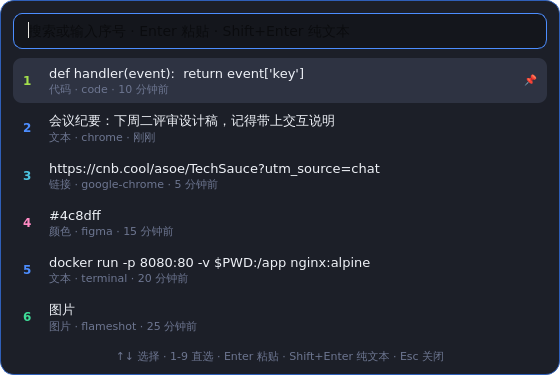
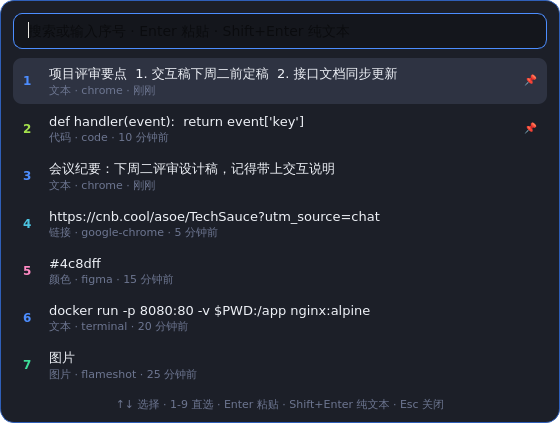
docs: 补「剪贴板多形式」「metadata 合并语义」的说明与约束
README 补一节讲清「哪几种写法、为什么必须在采集那一刻收、shell 转义
为什么不能无脑加引号」；architecture 补 metadata 的共享信封语义与
三条补丁约定；search-syntax 补形式取用；CONTRIBUTING 补两条约束 ——
新 CLI 标志的归宿、metadata 写入按键合并。截图脚本一并重新生成。

diff --git a/packaging/screenshots.py b/packaging/screenshots.py
@@ -81,6 +81,7 @@ def main() -> int:
 
     storage = Storage()
     seed_storage(storage)
+    _seed_form_item(storage)
     engine = SemanticEngine(storage)
     automation = AutomationEngine()
 
@@ -281,10 +282,52 @@ def main() -> int:
         tabs.setCurrentIndex(tabs.count() - 1)  # 「关于」是最后一页
     _render(about, OUT / "settings-native.png")
 
+    # 设置页「采集」：历史保留里新增的「收下各种写法」开关
+    keep_dialog = SettingsDialog(_config({"capture.monitor_primary": True}), automation)
+    keep_dialog.resize(760, 760)
+    keep_dialog._monitor_primary.setEnabled(True)
+    keep_dialog._monitor_primary.setChecked(True)
+    keep_dialog._primary_status.setText(
+        "可用 · 选中文字即进历史，与剪贴板记录走同一套隐私判定"
+    )
+    _render(keep_dialog, OUT / "settings-capture-formats.png")
+
     storage.close()
     app.quit()
     print("完成。")
     return 0
+
+
+def _seed_form_item(storage) -> None:
+    """造一条「剪贴板里还有别的写法」的记录，让截图体现形式取用。
+
+    没有这条记录的话，右键菜单里那一组项在截图与文档里都无从体现 ——
+    而它正是这一轮做的东西。
+    """
+    from linglong_clip.core.models import ClipboardItem, content_hash
+
+    storage.add(
+        ClipboardItem(
+            kind="text",
+            content="项目评审要点\n1. 交互稿下周二前定稿\n2. 接口文档同步更新",
+            preview="项目评审要点 1. 交互稿下周二前定稿",
+            source_app="chrome",
+            hash=content_hash("text", "form-shot"),
+            pinned=True,
+            metadata={
+                "formats": {
+                    "data": {
+                        "text/html": (
+                            "<p>项目评审要点</p><ol><li>交互稿下周二前"
+                            '<a href="https://cnb.cool/design">定稿</a></li>'
+                            "<li>接口文档同步更新</li></ol>"
+                        )
+                    }
+                },
+                "formats_summary": "text/html",
+            },
+        )
+    )
 
 
 def _seed_pending_flag_change(storage) -> None:

diff --git a/docs/architecture.md b/docs/architecture.md
@@ -41,11 +41,13 @@
    ▼
    │ ② gui_invoke → 切回 GUI 线程读取
    │    QClipboard 只能在所属线程访问，跨线程读会拿到空数据
+   │    顺带收下各种形式：text/html、text/plain 原始字节、Markdown、uri-list
    ▼
 ClipboardItem（原始载荷）
    │
    │ ③ Collector.process()（仍在采集线程，不碰 Qt）
    │    · 补齐来源（FocusTracker，按秒缓存）
+   │    · 处理形式（clipboard_formats）：补 html、Markdown 纠偏、写形式清单
    │    · 截图 OCR（OcrEngine）—— 识别结果写回 content
    │    · 类型识别 / 标签抽取（classify）
    │    · 隐私风控（PrivacyGuard）
@@ -77,6 +79,27 @@ GUI 线程：刷新列表 + 状态提示
 但排序仍把固定项排前（SQLite 的 `ORDER BY pinned DESC, …`，
 JSON 后端的 `_sort_key`），所以先被淘汰的仍是久未使用的普通记录。
 两个后端方法签名与语义逐条对齐。
+
+**剪贴板形式为什么必须在「采集那一刻」收下来。**
+`QMimeData` 是系统剪贴板当时那一份的快照，下一次复制就没了。
+之后无论读多少次 `storage`，都只能拿到我们当初决定存下来的东西 ——
+所以「这条记录还有没有 HTML 可用」是个**只能当场回答**的问题，
+不能事后推导。判定与取用收在 `core/clipboard_formats.py`，
+采集侧（`ui/clipboard_qt.py`）只负责把系统给的东西端过来。
+
+**`metadata` 是共享信封，写入按键合并。**
+往里写东西的至少有四个来源：采集（`last_source`）、形式（`formats`、
+`text_bytes`、`formats_summary`）、同步（`pinned_by`、`synced`）、
+截图识别（`ocr`）。`update_fields(metadata=...)` 因此是**合并补丁**语义：
+
+- 传部分键 → 只改这几个，其余原样保留
+- 传 `None` → 删掉这个键
+- 传 `{}` → 什么都不改
+
+此前是整体替换，于是每多一个写方，其它写方的键就开始轮流消失 ——
+而且是静默的，没有报错、界面照常，只有某天发现某个字段莫名其妙没了。
+「整体替换」还逼出一个反直觉的写法：想删一个键就得传整份拷出来的字典，
+一旦哪个写方忘了拷，删除动作就变成一次全量覆盖。
 
 ### 检索
 

diff --git a/CONTRIBUTING.md b/CONTRIBUTING.md
@@ -383,8 +383,18 @@ pytest tests/test_storage.py -k fts -v               # 单个模块
   需要按时间游标翻页时用 `iter_since()`。两条同步路径都曾因为只用一页
   而静默丢失老记录，且错误会自我固化。参考 `tests/test_sync.py` 的
   「全量导出」一组与 `tests/test_lan_sync.py` 的「整库传输」一组。
-  曾经有个标志没登记到分发表，表现是静默挂起（卡到 10 分钟超时才发现），
-  而不是报错。参考 `tests/test_cli.py::test_selfcheck_skips_gui_dispatch`。
+  曾经有标志没登记到分发表，表现是静默挂起（卡到 10 分钟超时才发现），
+  而不是报错 —— 而且踩过两次。现在新标志必须写进 `CLI_DEST_NAMES`
+  （GUI 专用项进 `GUI_ONLY_DESTS`），由
+  `tests/test_cli.py::test_every_cli_flag_is_dispatched` 守着。
+- **`metadata` 是共享信封，写入要按键合并**：多个写方各写自己那个键
+  （`last_source`、`formats`、`text_bytes`、`pinned_by`…）。`update_fields`
+  的 `metadata` 是**合并补丁**，传 `None` 表示删键，传 `{}` 表示什么都不改。
+  别再传「整份拷出来的字典」来表达删除 —— 合并语义下它删不掉任何东西。
+  参考 `tests/test_sync_flags.py::test_unpin_clears_origin`。
+- **「存下来」和「取出去」的字段名要成对改**：剪贴板形式的键名散落在
+  采集（`ui/clipboard_qt.py`）、判定（`core/clipboard_formats.py`）与
+  同步（`core/sync.py` 的记录字段）三处，改名时一起动。
 
 ## 提交
 

diff --git a/docs/search-syntax.md b/docs/search-syntax.md
@@ -115,3 +115,24 @@ in firefox
 linglong-clipboard --search '上周的截图'
 linglong-clipboard --search '来自 chrome 的链接' --json
 ```
+
+
+## 取用「别的写法」
+
+检索找的是记录，而记录在剪贴板里往往有好几份写法。
+不在搜索框里区分，但在**右键菜单 → 取用形式…** 里可以按需取用：
+
+| 取用 | 什么时候要它 |
+| --- | --- |
+| HTML | 粘进邮件 / 富文本编辑器，链接与加粗还在 |
+| Markdown | 粘进文档时保留 Markdown 原文 |
+| Shell 命令 | 把路径贴进终端，带空格的自动作引号 |
+| JSON 数组 | 喂给脚本或配置文件 |
+| Markdown 代码块 | 粘进文档不丢格式 |
+
+命令行里同一套判定：
+
+```bash
+linglong-clipboard --formats                 # 哪些记录带额外形式
+linglong-clipboard --get 12 --form-key html  # 取出来（可直接管道）
+```
